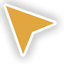
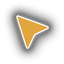
Softer cursor: thinner white edge, wider fading white glow (no square edge); hotspot 9,8
Claude-Session: https://claude.ai/code/session_015jYADdtfx2nAJsgPgk8tv3

diff --git a/i18n.js b/i18n.js
@@ -27,7 +27,7 @@
     APP=sessionStorage.getItem("qt-app")==="1"||matchMedia("(display-mode: standalone)").matches;
   }catch(e){}
   /* Brand cursor (black arrow, white glow; gold over links). Mouse/trackpad only; text fields keep the text cursor. */
-  try{if(matchMedia("(pointer:fine)").matches){document.documentElement.classList.add("qt-cur");var cs=document.createElement("style");cs.textContent="html.qt-cur,html.qt-cur body{cursor:url(/cursor.png) 3 3,auto;cursor:-webkit-image-set(url(/cursor.png) 1x,url(/cursor@2x.png) 2x) 3 3,auto;cursor:image-set(url(/cursor.png) 1x,url(/cursor@2x.png) 2x) 3 3,auto}html.qt-cur :is(a[href],button,[role=button],summary,label[for],select,.btn,input[type=checkbox],input[type=radio],input[type=submit],input[type=button]):not(:disabled){cursor:url(/cursor-link.png) 3 3,pointer!important;cursor:-webkit-image-set(url(/cursor-link.png) 1x,url(/cursor-link@2x.png) 2x) 3 3,pointer!important;cursor:image-set(url(/cursor-link.png) 1x,url(/cursor-link@2x.png) 2x) 3 3,pointer!important}";document.head.appendChild(cs)}}catch(e){}
+  try{if(matchMedia("(pointer:fine)").matches){document.documentElement.classList.add("qt-cur");var cs=document.createElement("style");cs.textContent="html.qt-cur,html.qt-cur body{cursor:url(/cursor.png) 9 8,auto;cursor:-webkit-image-set(url(/cursor.png) 1x,url(/cursor@2x.png) 2x) 9 8,auto;cursor:image-set(url(/cursor.png) 1x,url(/cursor@2x.png) 2x) 9 8,auto}html.qt-cur :is(a[href],button,[role=button],summary,label[for],select,.btn,input[type=checkbox],input[type=radio],input[type=submit],input[type=button]):not(:disabled){cursor:url(/cursor-link.png) 9 8,pointer!important;cursor:-webkit-image-set(url(/cursor-link.png) 1x,url(/cursor-link@2x.png) 2x) 9 8,pointer!important;cursor:image-set(url(/cursor-link.png) 1x,url(/cursor-link@2x.png) 2x) 9 8,pointer!important}";document.head.appendChild(cs)}}catch(e){}
   window.QT_APP=APP;if(APP)document.documentElement.classList.add("qt-app");
   /* Install from Chrome (PWA) */
   var installEvt=null;
